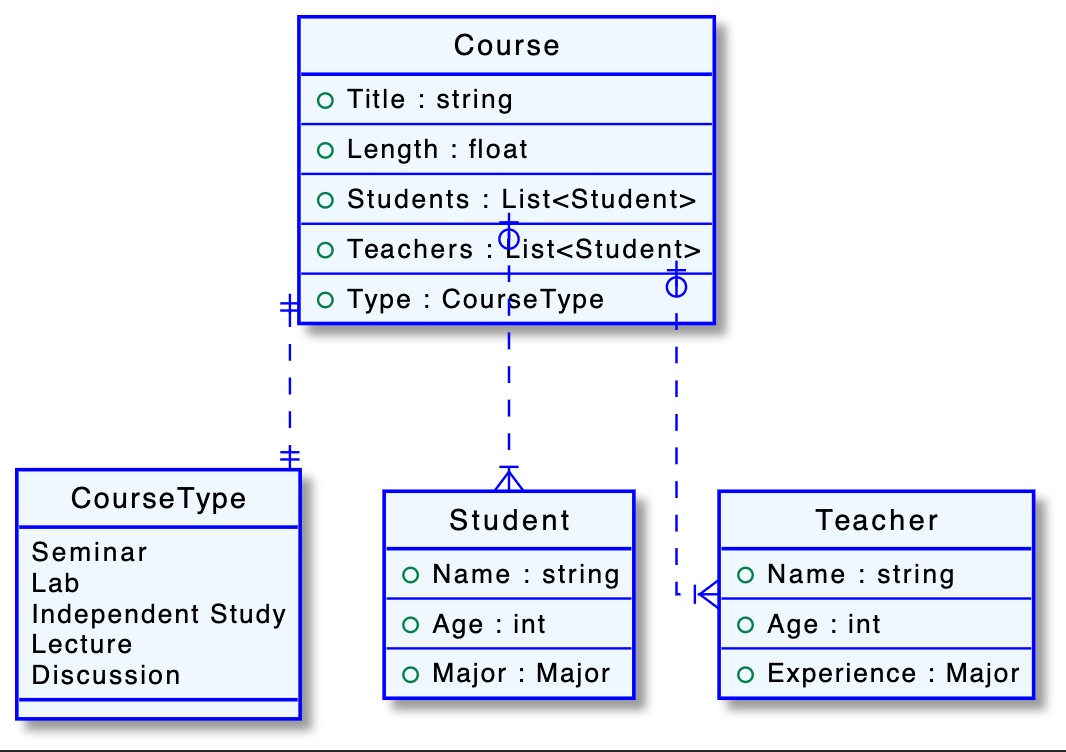
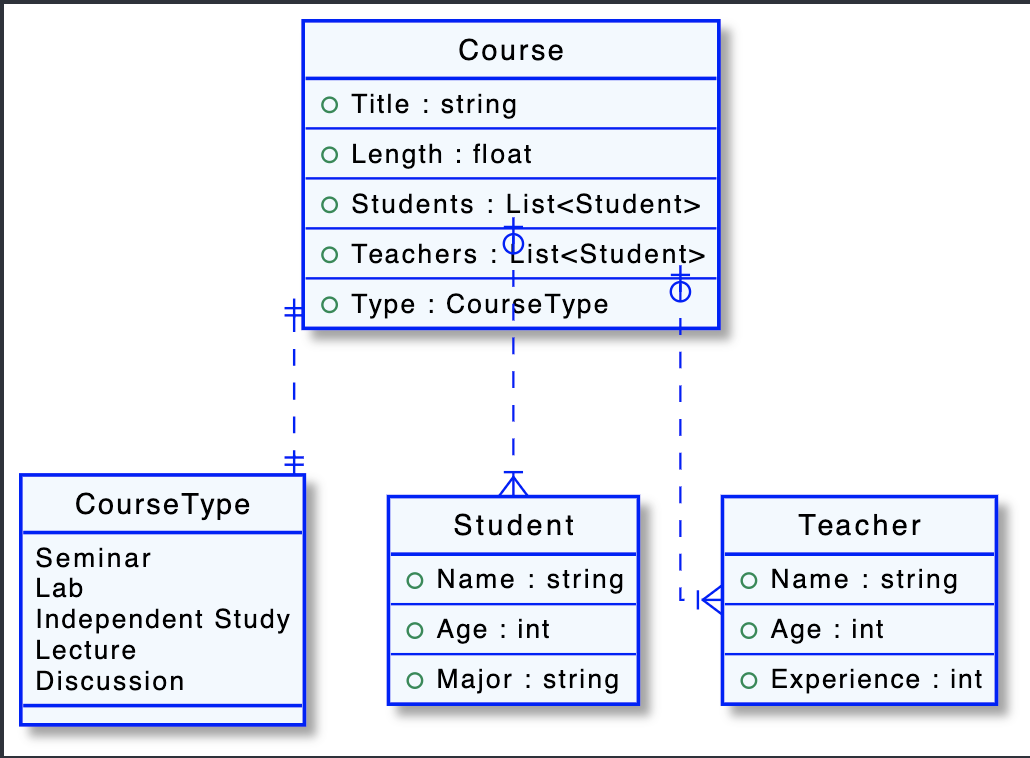
Add tests for Student and Teacher. Upgrade diagram

Changed region(s): [[0.0, 0.0, 1.0, 1.0], [0.3417, 0.6117, 0.9942, 0.9481]]

diff --git a/CoursesApp/CoursesApp.Models.Test/TeacherTest.cs b/CoursesApp/CoursesApp.Models.Test/TeacherTest.cs
@@ -1,0 +1,24 @@
+using FluentAssertions;
+using Xunit;
+
+namespace CoursesApp.Models.Test
+{
+    public class TeacherTest
+    {
+        [Fact]
+        public void Constructor_ValidParams_ExpectAssignment()
+        {
+            string name = "name";
+            int age = 40;
+            int experience = 20;
+            
+            var teacher = new Teacher(name, age, experience);
+
+            teacher.Name.Should().Be(name);
+            teacher.Age.Should().Be(age);
+            teacher.Experience.Should().Be(experience);
+
+        }
+        
+    }
+}

diff --git a/CoursesApp/CoursesApp.Models.Test/StudentTest.cs b/CoursesApp/CoursesApp.Models.Test/StudentTest.cs
@@ -1,0 +1,23 @@
+using FluentAssertions;
+using Xunit;
+
+namespace CoursesApp.Models.Test
+{
+    public class StudentTest
+    {
+        [Fact]
+        public void Constructor_ValidParams_ExpectAssignment()
+        {
+            string name = "name";
+            int age = 20;
+            string major = "major";
+            
+            var student = new Student(name, age, major);
+
+            student.Name.Should().Be(name);
+            student.Age.Should().Be(age);
+            student.Major.Should().Be(major);
+        }
+        
+    }
+}

diff --git a/CoursesApp/CoursesApp.Models/Teacher.cs b/CoursesApp/CoursesApp.Models/Teacher.cs
@@ -2,5 +2,15 @@ namespace CoursesApp.Models
 {
     public class Teacher
     {
+        public string Name;
+        public int Age;
+        public int Experience;
+
+        public Teacher(string name, int age, int experience)
+        {
+            Name = name;
+            Age = age;
+            Experience = experience;
+        }
     }
 }

diff --git a/CoursesApp/CoursesApp.Models/Student.cs b/CoursesApp/CoursesApp.Models/Student.cs
@@ -2,6 +2,15 @@ namespace CoursesApp.Models
 {
     public class Student
     {
-        
+        public string Name;
+        public int Age;
+        public string Major;
+
+        public Student(string name, int age, string major)
+        {
+            Name = name;
+            Age = age;
+            Major = major;
+        }
     }
 }

diff --git a/README.md b/README.md
@@ -39,7 +39,7 @@
     --
     +Age : int
     --
-    +Major : Major
+    +Major : string
   }
 
   entity "Teacher" as t {
@@ -47,7 +47,7 @@
     --
     +Age : int
     --
-    +Experience : Major
+    +Experience : int
   }
 
   c::CourseType ||..|| ct
